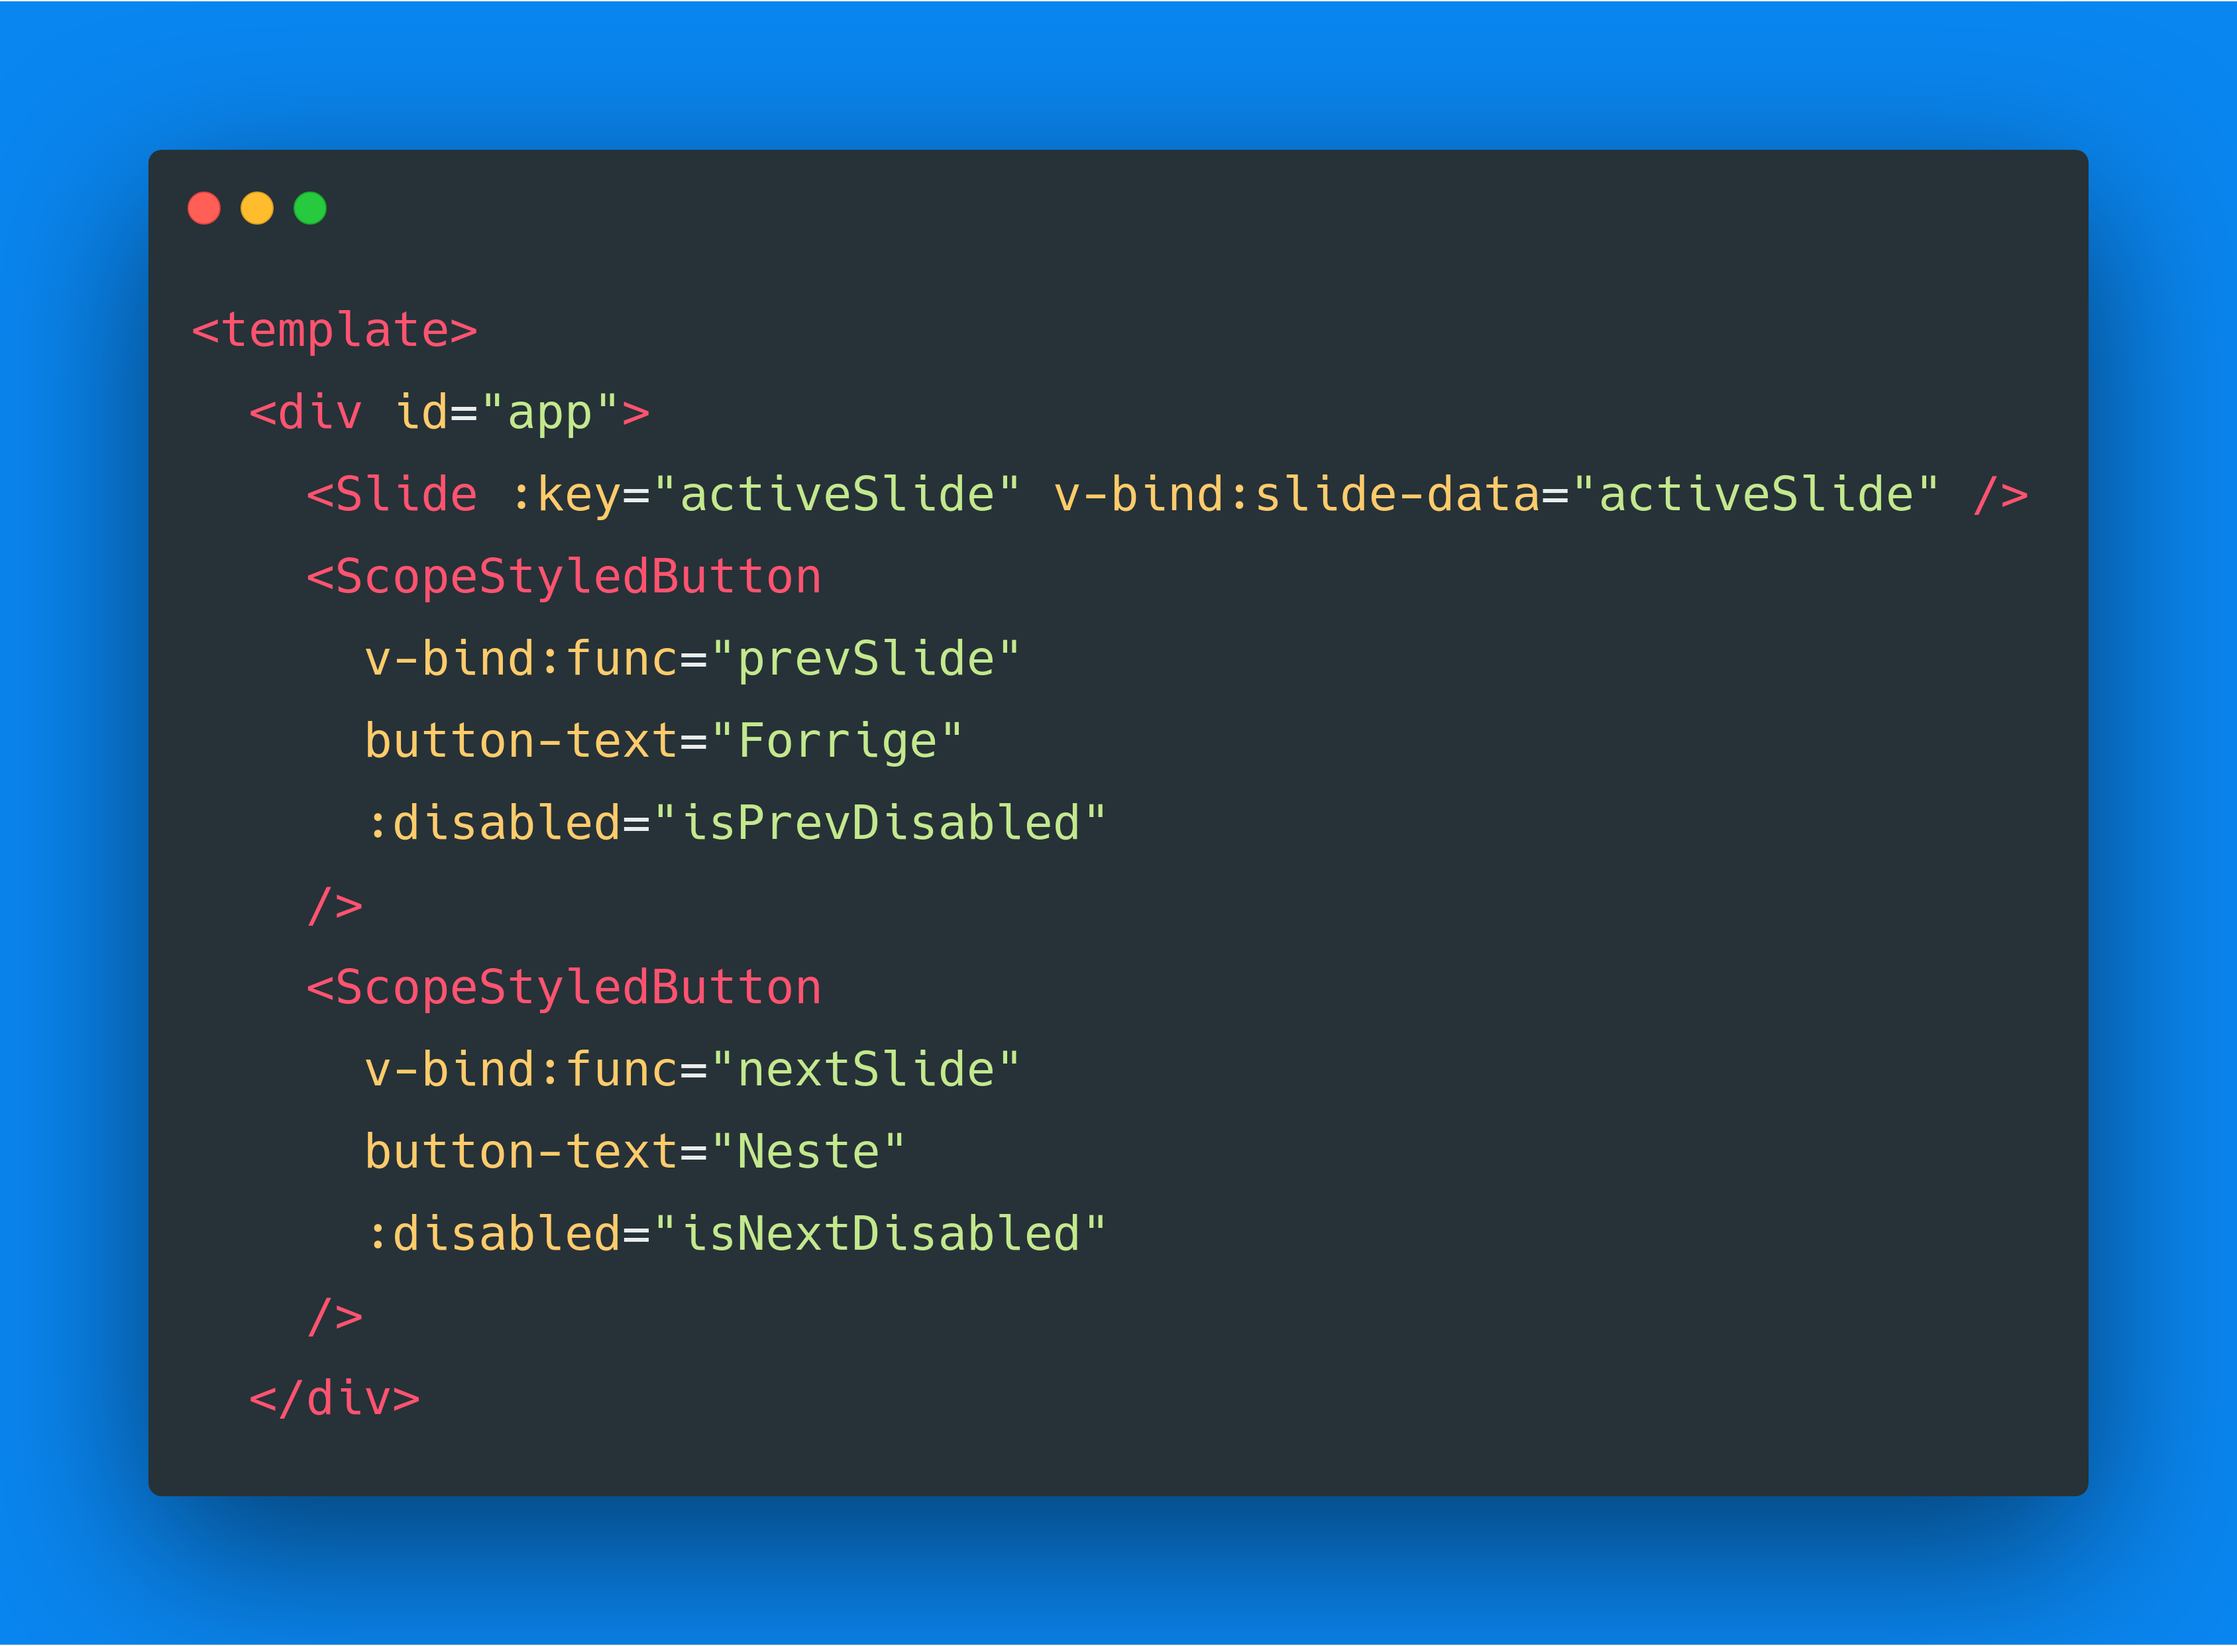
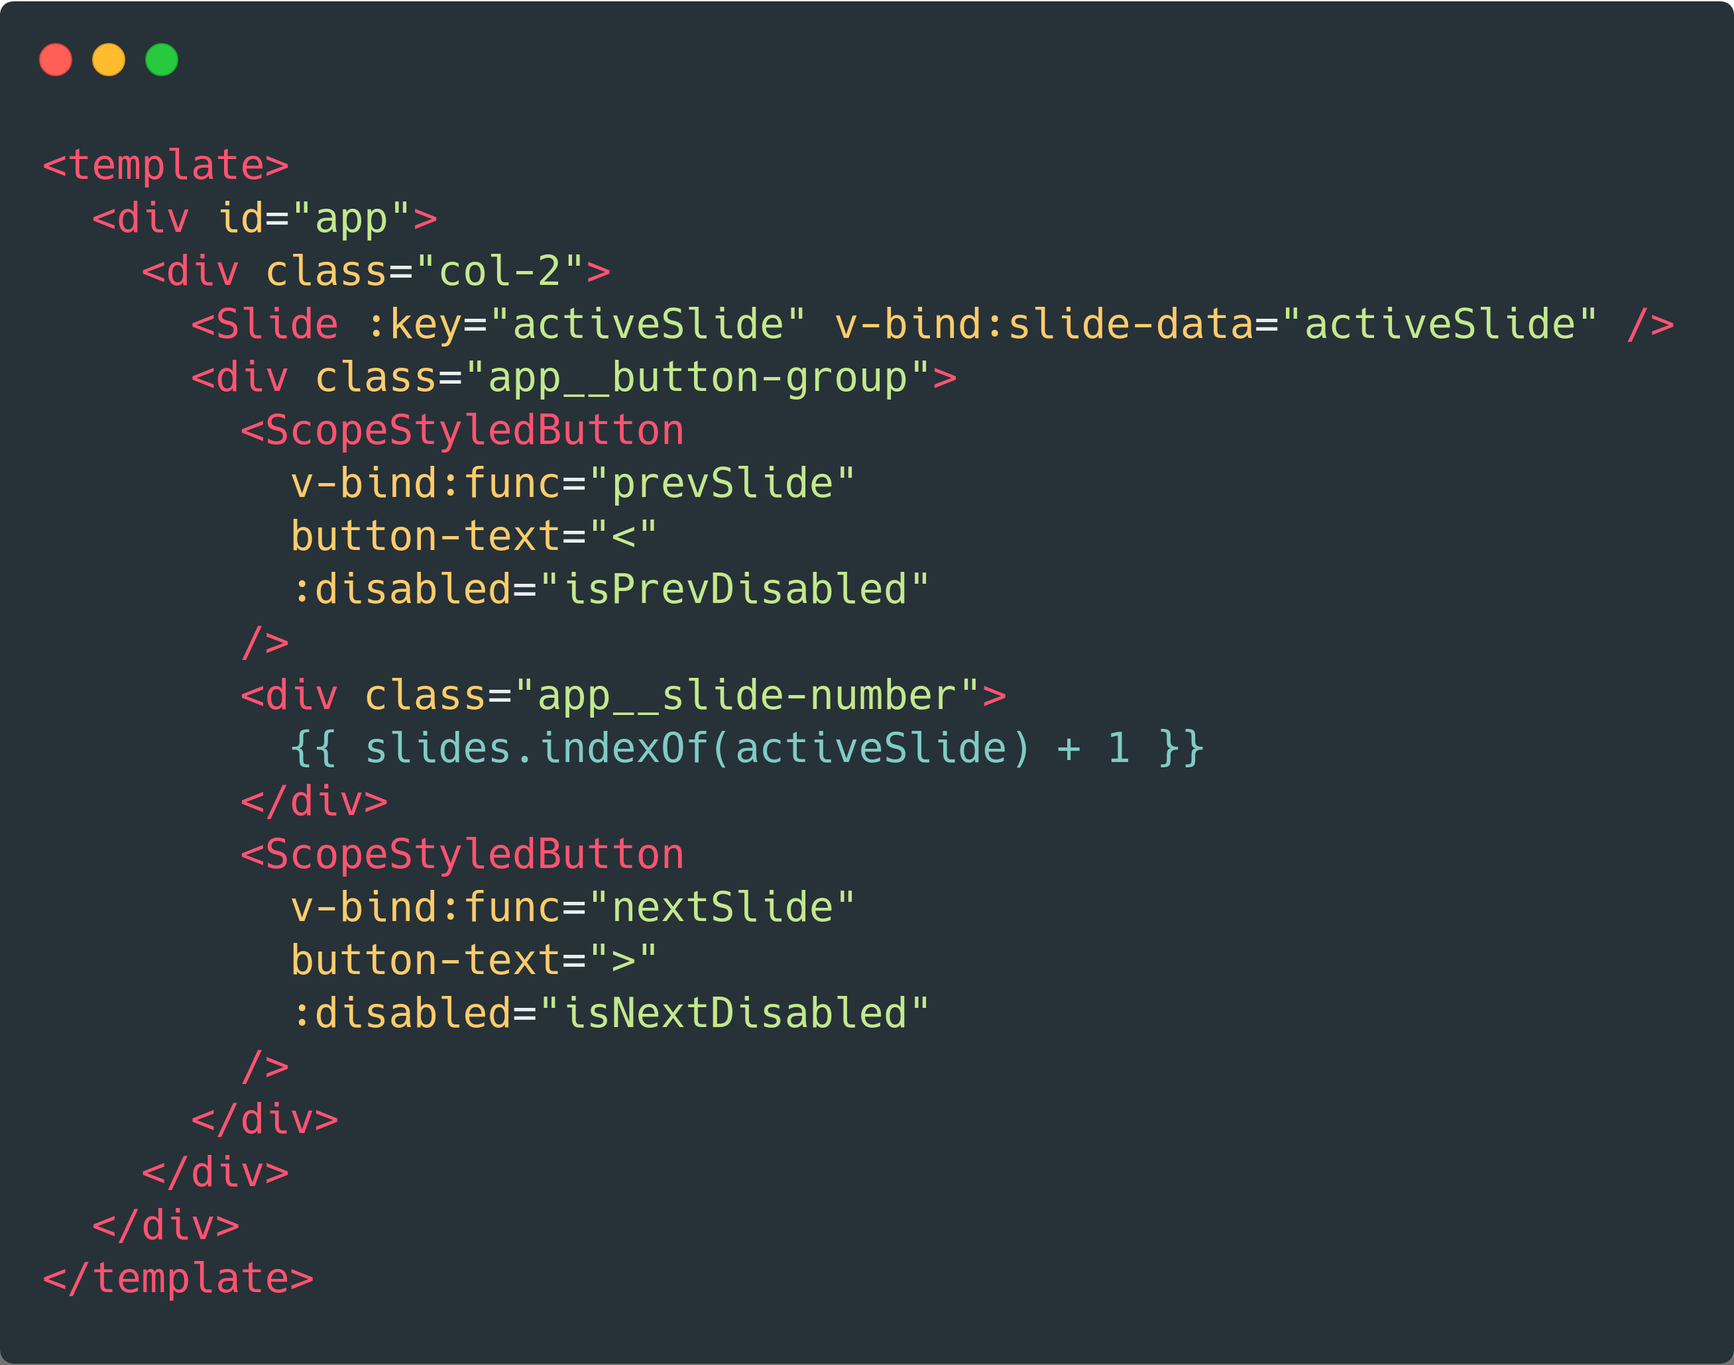
- Added more slides and styling

diff --git a/src/components/Slide.vue b/src/components/Slide.vue
@@ -1,6 +1,14 @@
 <template>
   <div class="slide">
-    <h1 class="slide__title">{{ slideData.title }}</h1>
+    <h1 class="slide__title">
+      <img
+        class="slide__title-icon"
+        v-if="slideData.titleIcon"
+        v-bind:src="slideData.titleIcon"
+        alt="title-icon"
+      />
+      {{ slideData.title }}
+    </h1>
     <div class="slide__container">
       <img
         v-if="slideData.image"
@@ -32,6 +40,7 @@
 import { Component, Prop, Vue } from "vue-property-decorator";
 type SlideData = {
   title: string;
+  titleIcon?: string;
   image?: string;
   notes: string[];
 };
@@ -56,6 +65,10 @@ export default class Slide extends Vue {
     grid-template-rows: 10% 80% 10%;
   }
 
+  &__title-icon {
+    height: 35px;
+    margin-right: -15px;
+  }
 
   &__image {
     justify-self: center;
@@ -84,11 +97,12 @@ export default class Slide extends Vue {
     justify-content: space-around;
     height: 100%;
     p {
-      text-align: left;
+      text-align: right;
       font-size: 20px;
+      color: black;
       margin: 5px;
       &:before {
-        content: "-";
+        /*content: "-";*/
         margin-right: 10px;
       }
     }

diff --git a/src/App.vue b/src/App.vue
@@ -8,7 +8,9 @@
           button-text="<"
           :disabled="isPrevDisabled"
         />
-        <div class="app__slide-number">{{ slides.indexOf(activeSlide) + 1 }}</div>
+        <div class="app__slide-number">
+          {{ slides.indexOf(activeSlide) + 1 }}
+        </div>
         <ScopeStyledButton
           v-bind:func="nextSlide"
           button-text=">"
@@ -64,9 +66,9 @@ export default class App extends Vue {}
 </script>
 
 <style lang="scss">
-  body {
-    background-color: #f2f2f2;
-  }
+body {
+  background-color: #f2f2f2;
+}
 #app {
   font-family: Avenir, Helvetica, Arial, sans-serif;
   -webkit-font-smoothing: antialiased;
